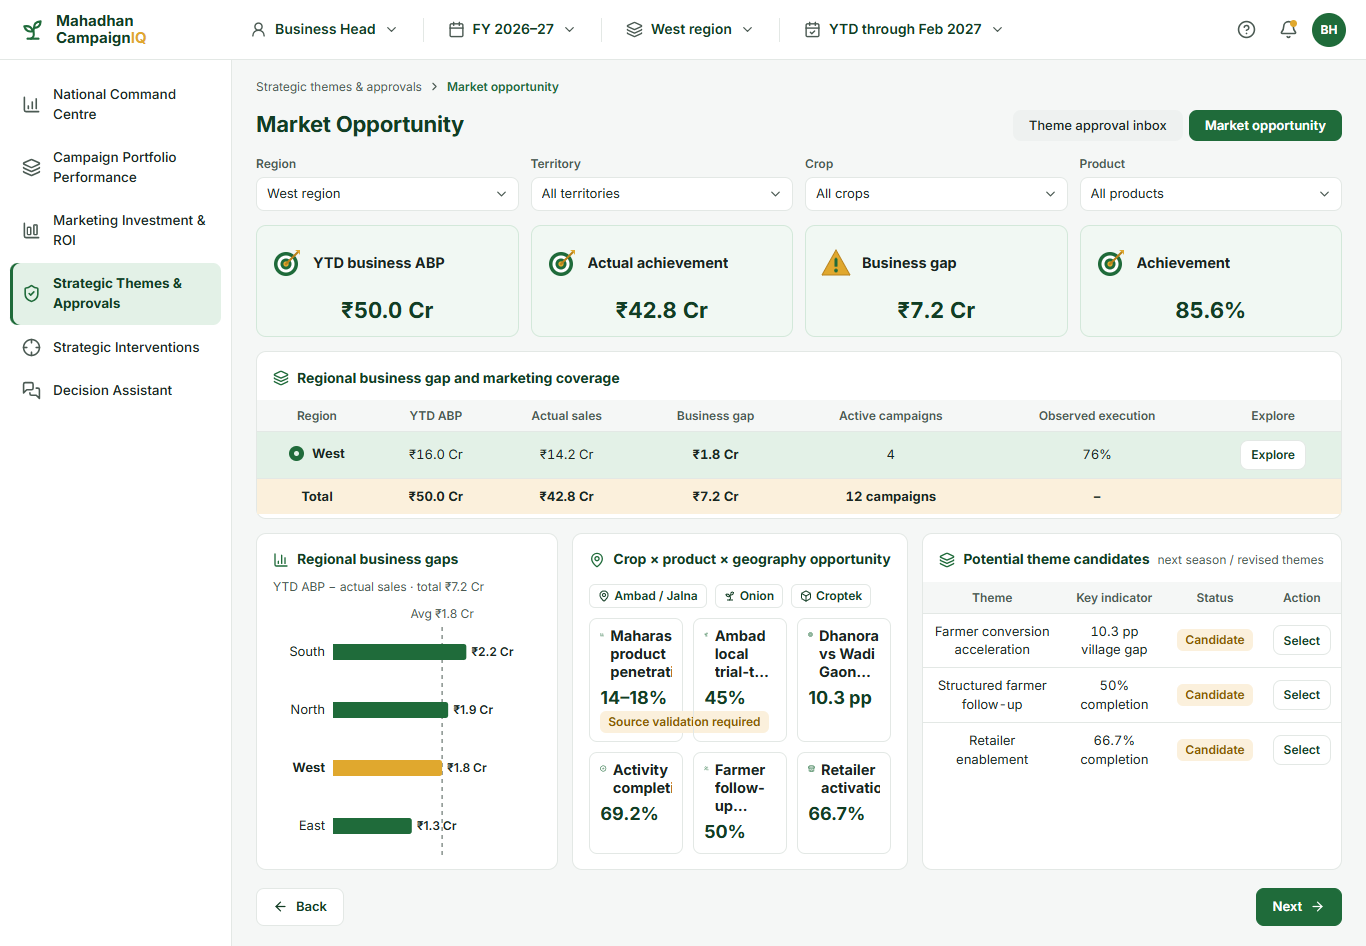
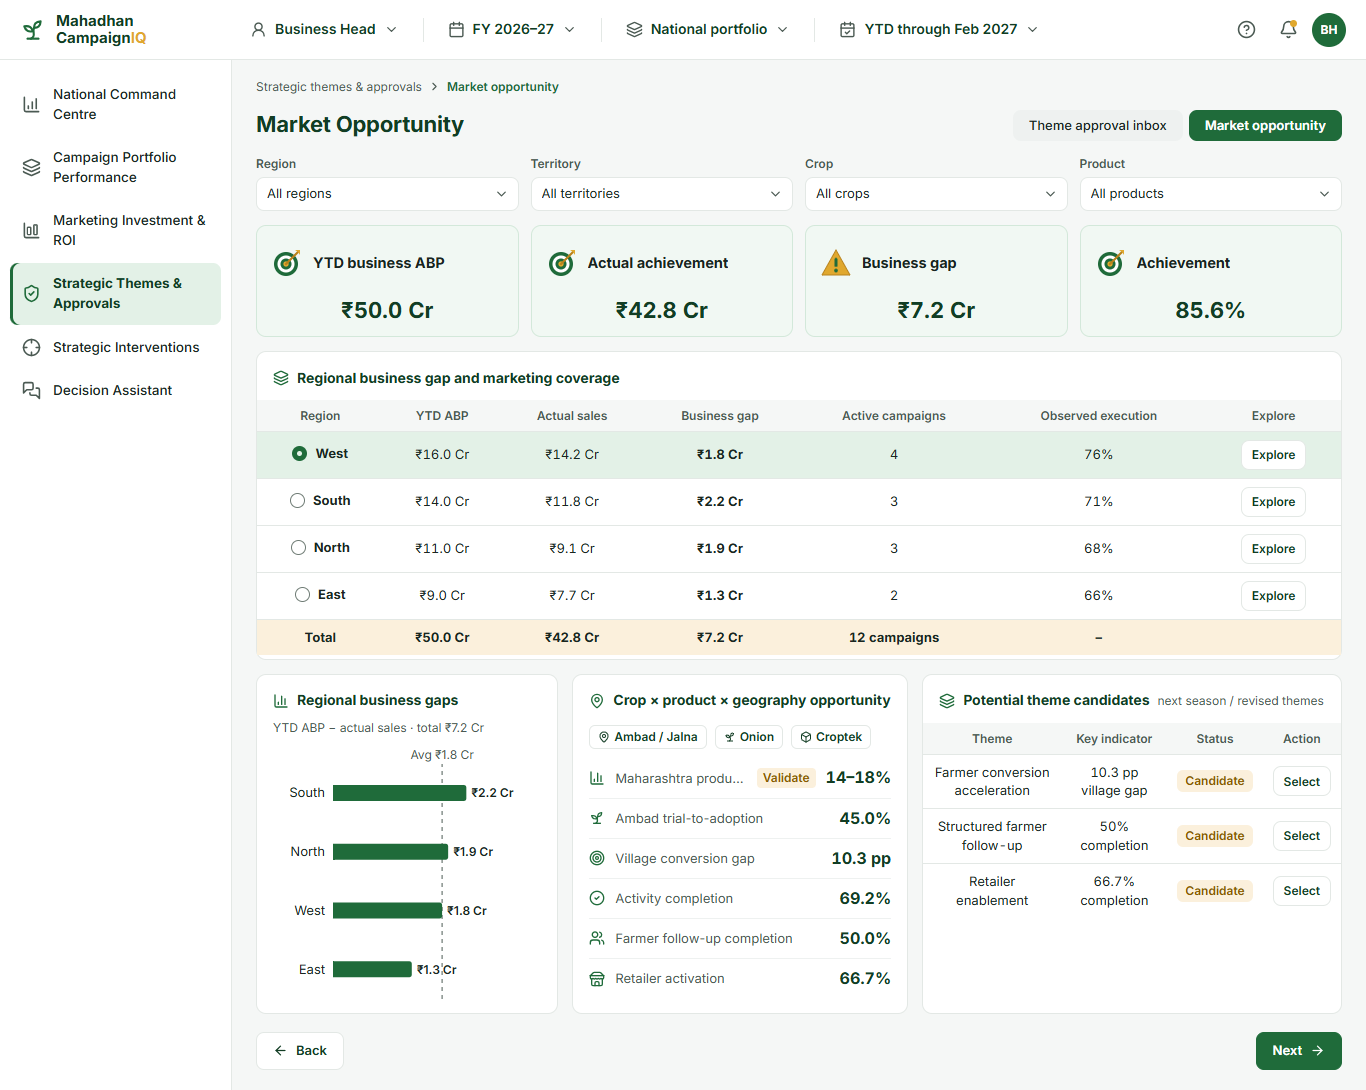
BH: tidy opportunity card

diff --git a/campaigniq-v3/src/screens/Themes.tsx b/campaigniq-v3/src/screens/Themes.tsx
@@ -41,11 +41,11 @@ export function MarketOpportunity() {
   const a = ambadMetrics();
   const tiles = selRegion.id === 'west'
     ? [
-      { icon: ChartColumn, label: `${MARKET.state} product penetration`, value: MARKET.penetration, chip: 'Source validation required' },
-      { icon: Sprout, label: 'Ambad local trial-to-adoption', value: pct(a.trialToAdoptionPct, 0) },
-      { icon: Target, label: 'Dhanora vs Wadi Gaon gap', value: `${a.villageGap.toFixed(1)} pp` },
+      { icon: ChartColumn, label: `${MARKET.state} product penetration`, value: MARKET.penetration, chip: 'Validate' },
+      { icon: Sprout, label: 'Ambad trial-to-adoption', value: pct(a.trialToAdoptionPct) },
+      { icon: Target, label: 'Village conversion gap', value: `${a.villageGap.toFixed(1)} pp` },
       { icon: CircleCheck, label: 'Activity completion', value: pct(a.activityPct) },
-      { icon: Users, label: 'Farmer follow-up completion', value: pct(a.followUpPct, 0) },
+      { icon: Users, label: 'Farmer follow-up completion', value: pct(a.followUpPct) },
       { icon: Store, label: 'Retailer activation', value: pct(a.retailerActivationPct) },
     ]
     : [
@@ -93,17 +93,18 @@ export function MarketOpportunity() {
           reference={{ value: NATIONAL_METRICS.gap / REGIONS.length, label: `Avg ${crore(NATIONAL_METRICS.gap / REGIONS.length, 1)}` }}
           tooltip={(r) => `ABP ${crore(r.abp, 1)} · Actual ${crore(r.achieved, 1)} · Gap ${crore(regionMetrics(r).gap, 1)} (${pct((regionMetrics(r).gap / r.abp) * 100)})`} />
         <Card title="Crop × product × geography opportunity" icon={MapPin}>
-          <div className="row" style={{ flexWrap: 'wrap' }}>
+          <div className="row" style={{ flexWrap: 'nowrap', overflow: 'hidden' }}>
             {selRegion.id === 'west'
               ? <><StatusChip tone="info" icon={MapPin}>Ambad / Jalna</StatusChip><StatusChip tone="info" icon={Sprout}>{AMBAD.crop}</StatusChip><StatusChip tone="info" icon={Box}>{AMBAD.product}</StatusChip></>
               : <StatusChip tone="info" icon={MapPin}>{selRegion.name} region</StatusChip>}
           </div>
-          <div style={{ display: 'grid', gridTemplateColumns: 'repeat(3, minmax(0, 1fr))', gap: 10 }}>
+          <div className="opp-list">
             {tiles.map((t) => (
-              <div key={t.label} style={{ border: '1px solid var(--line)', borderRadius: 8, padding: '8px 10px' }}>
-                <div className="row" style={{ gap: 6, alignItems: 'flex-start' }}><t.icon size={15} color="var(--brand)" /><span className="kpi-label">{t.label}</span></div>
-                <div className="strong" style={{ fontSize: 18, marginTop: 4 }}>{t.value}</div>
-                {t.chip && <StatusChip wrap tone="warn">{t.chip}</StatusChip>}
+              <div key={t.label} className="opp-row">
+                <t.icon size={16} />
+                <span className="opp-label">{t.label}</span>
+                {t.chip && <span className="opp-tag">{t.chip}</span>}
+                <b className="opp-value">{t.value}</b>
               </div>
             ))}
           </div>

diff --git a/campaigniq-v3/src/styles.css b/campaigniq-v3/src/styles.css
@@ -211,3 +211,11 @@ textarea.input { height: auto; min-height: 60px; padding: 8px 10px; resize: vert
 .realloc-card .tbl td { height: 38px; padding-top: 4px; padding-bottom: 4px; }
 .realloc-card .tbl th:first-child, .realloc-card .tbl td:first-child { padding-left: 16px; }
 .realloc-card .rc-name { display: -webkit-box; -webkit-line-clamp: 2; -webkit-box-orient: vertical; overflow: hidden; }
+/* ---------- opportunity metric list ---------- */
+.opp-list { flex: 1; display: flex; flex-direction: column; justify-content: space-evenly; }
+.opp-row { display: flex; align-items: center; gap: 10px; min-height: 40px; border-bottom: 1px solid var(--neutral); min-width: 0; }
+.opp-row:last-child { border-bottom: 0; }
+.opp-row svg { color: var(--brand); flex: none; }
+.opp-label { flex: 1; min-width: 0; font-size: 13px; color: var(--ink-soft); white-space: nowrap; overflow: hidden; text-overflow: ellipsis; }
+.opp-tag { flex: none; font-size: 12px; font-weight: 600; color: var(--amber-ink); background: var(--amber-soft); border-radius: 4px; padding: 1px 6px; }
+.opp-value { flex: none; font-size: 16px; font-weight: 700; color: var(--dark); white-space: nowrap; font-variant-numeric: tabular-nums; }
